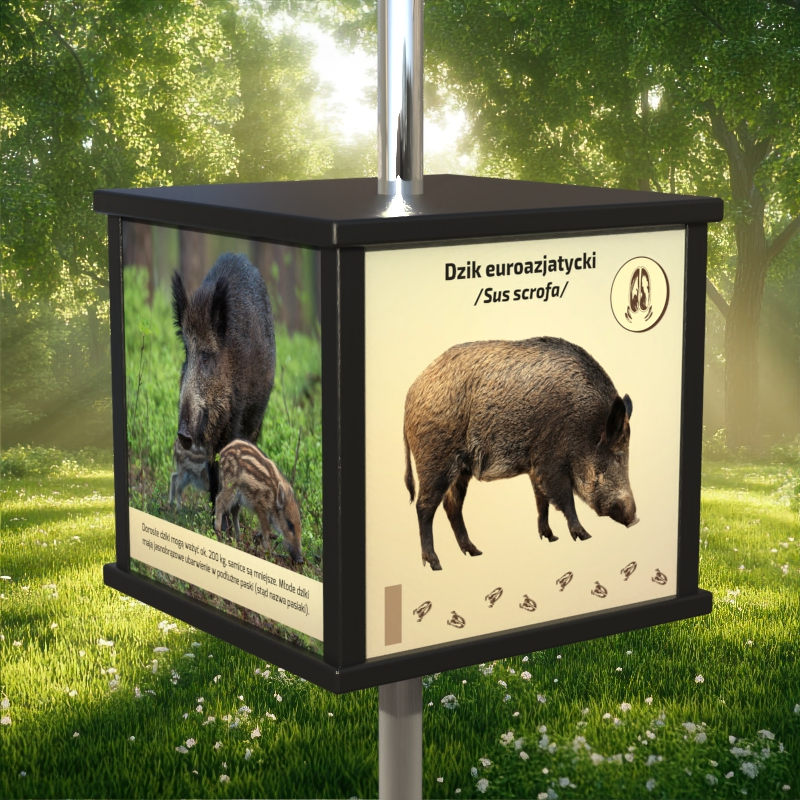
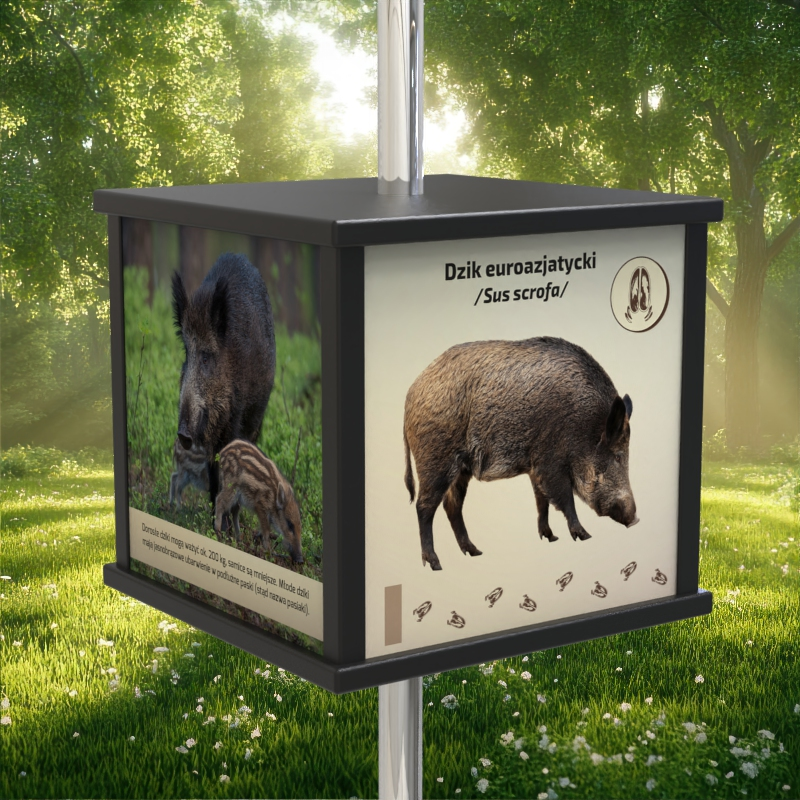
zmiana hero

Changed region(s): [[0.125, 0.0, 0.9062, 1.0], [0.375, 0.8438, 0.4375, 0.875]]

diff --git a/index.html b/index.html
@@ -144,7 +144,7 @@
     <!-- ALUMINIUM — tło -->
     <img
       class="ms-adv-compareSlider__image ms-adv-compareSlider__image--base"
-      src="src/hero/galileo.jpg"
+      src="src/hero/wolta.webp"
       alt="Konstrukcja aluminiowa Mentor"
     >
 
@@ -152,7 +152,7 @@
     <div class="ms-adv-compareSlider__overlay" data-ms-compare-overlay>
       <img
         class="ms-adv-compareSlider__image"
-        src="src/hero/sprawnosc.jpg"
+        src="src/hero/bio.webp"
         alt="Konstrukcja drewniana Mentor"
       >
     </div>
